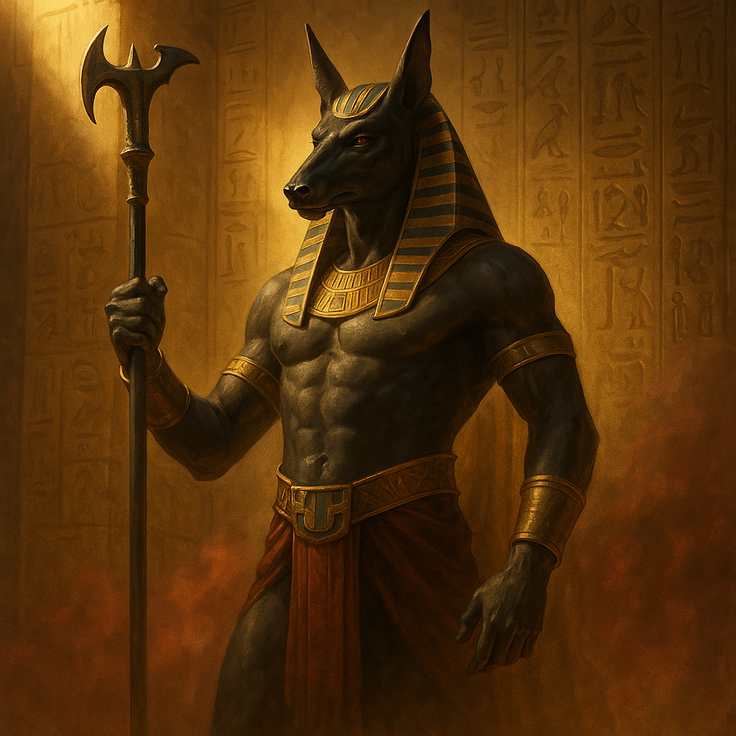
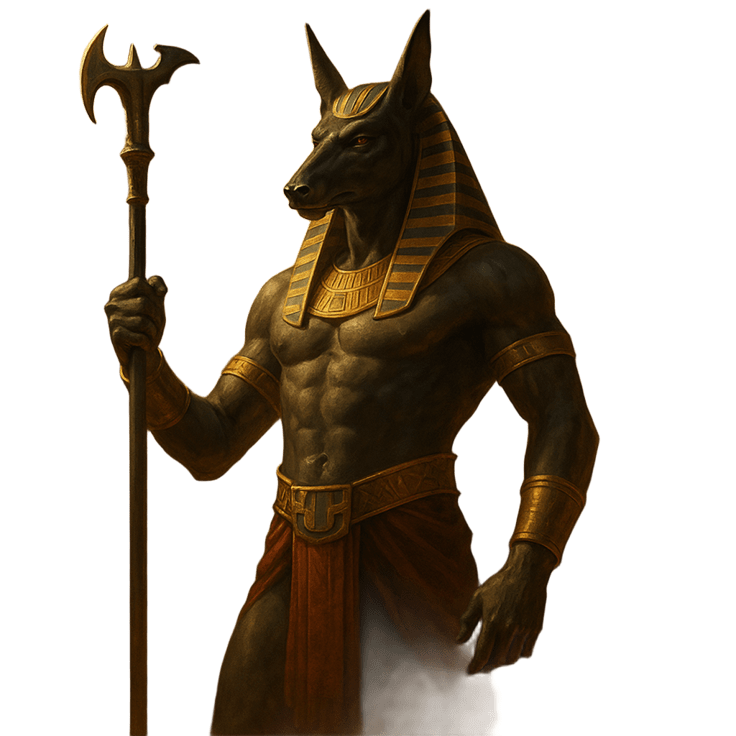
adicionadno personagem, mudando o beackground de cada familia para personalizado, mudando o formato de iimagem dos personagens e indo dormi pq to capotando

diff --git a/personagens/personagens.html b/personagens/personagens.html
@@ -45,7 +45,7 @@
 
                             <p>
                                 Kevin nao sabe muito sobre seu passado, as poucas coisas que sabem foram contadas na
-                                espoca que viveu no egito cirado por seu tio... Kevin foi um projeto de Atena, Seth e
+                                espoca que viveu no egito criado por seu tio... Kevin foi um projeto de Atena, Seth e
                                 Asmodeus, tendo um pai ausente sendo um crimoso e tendo uma pessima relaçao com sua mae,
                                 Kevin sai do egito querendo conhecer o mundo e volta anos depois como o messias do povo
                                 do deserto
@@ -385,7 +385,7 @@
                         <span class="tipo">Ignis</span>
 
                         <div class="cartao-imagem">
-                            <img src="./src//imagens/rammon.png" alt="rammon">
+                            <img src="./src//imagens/rammon (1).png" alt="rammon">
                         </div>
                     </div>
 
@@ -393,48 +393,100 @@
                         <div class="descricao">
                             <h3>Descrição</h3>
                             <p>
-                                Vidal tenebris, filho da Nyx com Aphoma, depois da grande revoluçao tenebris foi adotado
-                                por Tanatus e cresceu no vale da morte, hoje vidal busca pelo seu passado, em uma
-                                jornada de alto conhecimento
+                                Rammon ignis filho de Gisela Ignis Pendragon com Abadon, mesmo tendo sangue real depois da grande queda, aonde sua mae fora morta, Rammon foi criado na terra sobre a proteçao de ananke, depos de sua juventude atribulada e repleta de crimes tentando avida pelo caos e intregando ao grupo dos demonios com seu casca de bala azazel, resolveu tomar um rumo na vida tomou um banho e subiu ao imperio buscando seu lugar de direito, agora renomado como princiep de pois de varias batalhas intstelaris viaja com seus dois melhores amigos ze e dionisio atras do sepahim perdido
                             </p>
                         </div>
                     </div>
                 </div>
 
+                <div class="cartao-personagem tipo-eremin" id="cartao-sobek">
+                    <div class="cartao-topo">
+                        <div class="detalhes">
+                            <h2 class="nome">Sobek Eremin</h2>
+                            <span>#0015</span>
+                        </div>
+
+                        <span class="tipo">Eremin</span>
+
+                        <div class="cartao-imagem">
+                            <img src="./src//imagens/Sobek.png" alt="Sobek">
+                        </div>
+                    </div>
+
+                    <div class="cartao-informacoes">
+                        <div class="descricao">
+                            <h3>Descrição</h3>
+                            <p>
+                               
+                            </p>
+                        </div>
+                    </div>
+                </div>
+
+
+
+                <div class="cartao-personagem tipo-eremin" id="cartao-amon">
+                    <div class="cartao-topo">
+                        <div class="detalhes">
+                            <h2 class="nome">Amon Eremin</h2>
+                            <span>#0016</span>
+                        </div>
+
+                        <span class="tipo">Eremin</span>
+
+                        <div class="cartao-imagem">
+                            <img src="./src//imagens/amon.png" alt="amon">
+                        </div>
+                    </div>
+
+                    <div class="cartao-informacoes">
+                        <div class="descricao">
+                            <h3>Descrição</h3>
+                            <p>
+                                
+                            </p>
+                        </div>
+                    </div>
+                </div>
             </div>
 
 
             <nav class="listagem">
                 <ul>
                     <li class="personagem ativo" id="kevin">
-                        <img src="./src/imagens/kevin.png" alt="kevin">
+                        <img src="./src/imagens/kevin2.png" alt="kevin">
                         <span>Kevin</span>
                     </li>
 
                     <li class="personagem" id="vinicius">
-                        <img src="./src/imagens/vinicius.png" alt="vinicius">
+                        <img src="./src/imagens/vinicius2.png" alt="vinicius">
                         <span>Vinicius</span>
                     </li>
 
                     <li class="personagem" id="vidal">
-                        <img src="./src/imagens/vidal.png" alt="vidal">
+                        <img src="./src/imagens/vidal2.png" alt="vidal">
                         <span>Vidal</span>
                     </li>
 
                     <li class="personagem" id="ra">
-                        <img src="./src/imagens/Ra.png" alt="ra">
+                        <img src="./src/imagens/Ra2.png" alt="ra">
                         <span>Rá</span>
 
                     </li>
 
+                    <li class="personagem" id="amon">
+                        <img src="./src/imagens/amon2.png" alt="Amon">
+                        <span>Amon</span>
+                    </li>
+
                     <li class="personagem" id="sekhmet">
-                        <img src="./src/imagens/Sekhmet.png" alt="Sekhmet">
+                        <img src="./src/imagens/Sekhmet2.png" alt="Sekhmet">
                         <span>Sekhmet</span>
                     </li>
 
 
                     <li class="personagem" id="seth">
-                        <img src="./src/imagens/Seth.png" alt="Seth">
+                        <img src="./src/imagens/Seth2.png" alt="Seth">
                         <span>Seth</span>
                     </li>
 
@@ -445,38 +497,43 @@
 
 
                     <li class="personagem" id="anubis">
-                        <img src="./src/imagens/Anubis.png" alt="Anubis">
+                        <img src="./src/imagens/Anubis2.png" alt="Anubis">
                         <span>Anubis</span>
                     </li>
 
 
+                    <li class="personagem" id="sobek">
+                        <img src="./src/imagens/Sobek2.png" alt="Sobek">
+                        <span>Sobek</span>
+                    </li>
+
                     <li class="personagem" id="horus">
-                        <img src="./src/imagens/horus.png" alt="horus">
+                        <img src="./src/imagens/horus2.png" alt="horus">
                         <span>Horus</span>
                     </li>
 
                     <li class="personagem" id="bastet">
-                        <img src="./src/imagens/bastet.png" alt="Bastet">
+                        <img src="./src/imagens/bastet2.png" alt="Bastet">
                         <span>Bastet</span>
                     </li>
 
                     <li class="personagem" id="toth">
-                        <img src="./src/imagens/toth humano.png" alt="Toth">
+                        <img src="./src/imagens/toth humano2.png" alt="Toth">
                         <span>Toth</span>
                     </li>
 
                     <li class="personagem" id="isis">
-                        <img src="./src/imagens/isis.png" alt="isis">
+                        <img src="./src/imagens/isis2.png" alt="isis">
                         <span>Isis</span>
                     </li>
 
                     <li class="personagem" id="hator">
-                        <img src="./src/imagens/Hátor.png" alt="Hator">
+                        <img src="./src/imagens/Hátor2.png" alt="Hator">
                         <span>Hátor</span>
                     </li>
 
-                      <li class="personagem" id="rammon">
-                        <img src="./src/imagens/rammon.png" alt="Rammon">
+                    <li class="personagem" id="rammon">
+                        <img src="./src/imagens/rammon (1).png" alt="Rammon">
                         <span>Rammon</span>
                     </li>
 

diff --git a/personagens/src/style.css b/personagens/src/style.css
@@ -38,6 +38,7 @@ main {
     display: flex;
     gap: 30px;
     padding: 30px 0;
+    
 }
 
 .cartao-personagem {
@@ -57,13 +58,16 @@ main {
     height: 100%;
     margin-top: 10px;
     border-radius: 6px;
+    
 }
 
 .cartao-personagem .cartao-topo {
     padding: 30px 40px 0;
+    
 }
 
 .cartao-personagem .nome {
+   
     margin-bottom: 5px;
 
 }
@@ -81,6 +85,9 @@ main {
     display: flex;
     justify-content: space-between;
     align-items: center;
+    border-radius: 30px;
+    padding: 6px 15px;
+     background-color: rgba(100, 100, 111, 0.2);
 }
 
 .cartao-personagem .cartao-informacoes {
@@ -107,11 +114,11 @@ main {
 }
 
 .tipo-eremin {
-    background-color: #bf930d;
+    background-image: url(./imagens/teste-background.png);
 }
 
 .tipo-tenebris {
-    background-color: #301848;
+    background-image: url(./imagens/backgorund-tenebris.png);
 }
 
 .tipo-luminis {
@@ -119,15 +126,21 @@ main {
 }
 
 .tipo-sollum {
-    background-color: #a56da6;
+    background-image: url(./imagens/backgorund-Sollum.png);
 }
 
 .tipo-ignis {
-    background-color: #ff2800;
+    background-image: url(./imagens/ignis-background.png);
 }
 
+
+
 .listagem {
-    max-width: 200px;
+    max-width: 220px;
+    max-height: 900px;
+    overflow-y: scroll; 
+    
+
 }
 
 .listagem .personagem img {
@@ -148,12 +161,13 @@ main {
     border-top-left-radius: 30px;
     border-bottom-left-radius: 30px;
     min-height: 70px;
-
+    
     transition: 0.15 ease-in-out;
 }
 
 .listagem .personagem:hover {
     transform: scale(1.05);
+      box-shadow: 0 10px 30px rgb(0 0 0);
 }
 
 .listagem .personagem span {

diff --git a/index.html b/index.html
@@ -38,27 +38,27 @@
 
         </ul>
 
-    <div class="comando-container">
-    <div class="comando">
-        <a href="https://wa.me/qr/UJZFMAKZLBV5F1" target="_blank">
-            <img src="src/imagens/kevin.jpg" alt="Gerente Executivo">
-        </a>
-        <h2>kevin</h2>
-        <p class="legenda">Gerente Executivo</p>
-    </div>
+        <div class="comando-container">
+            <div class="comando">
+                <a href="comando/diretor-criativo.html" target="_blank">
+                    <img src="src/imagens/rafael.jpeg" alt="Diretor Criativo">
+                </a>
+                <h2>Lorakash</h2>
+                <p class="legenda">Diretor e Gerente Criativo</p>
+            </div>
+            <div class="comando">
+                <a href="https://wa.me/qr/UJZFMAKZLBV5F1" target="_blank">
+                    <img src="src/imagens/kevin.png" alt="Gerente Executivo">
+                </a>
+                <h2>kevin</h2>
+                <p class="legenda">Gerente Executivo</p>
+            </div>
 
-    <div class="comando">
-        <a href="comando/diretor-criativo.html" target="_blank">
-            <img src="src/imagens/rafael.jpeg" alt="Diretor Criativo">
-        </a>
-        <h2>Lorakash</h2>
-        <p class="legenda">Diretor e Gerente Criativo</p>
-    </div>
-</div>
+        </div>
 
-  <footer>
-    &copy; 2025 Infinity Games. Todos os direitos reservados.
-  </footer>
+        <footer>
+            &copy; 2025 Infinity Games. Todos os direitos reservados.
+        </footer>
 </body>
 
 

diff --git a/historia/src/css/style.css b/historia/src/css/style.css
@@ -1,7 +1,9 @@
 body {
     background-image: url(../imagens/background-historia.jpg);
-    background-size: cover;
-  
+   background-size: cover;
+    background-repeat: no-repeat;
+    background-position: center;
+    background-attachment: fixed;
 } 
  
 

diff --git a/historia/livros/src/style.css b/historia/livros/src/style.css
@@ -132,7 +132,8 @@ main {
 }
 
 .listagem .historia:hover {
-    transform: scale(1.05);
+     transform: translateY(-5px);
+    box-shadow: 0 10px 30px rgb(0 0 0);
 }
 
 .listagem .historia.ativo {

diff --git a/src/css/style.css b/src/css/style.css
@@ -90,6 +90,7 @@ li {
 
 .comando img:hover {
     transform: scale(1.05);
+      box-shadow: 0 10px 30px rgb(52, 51, 65);
 }
 
 .legenda {
